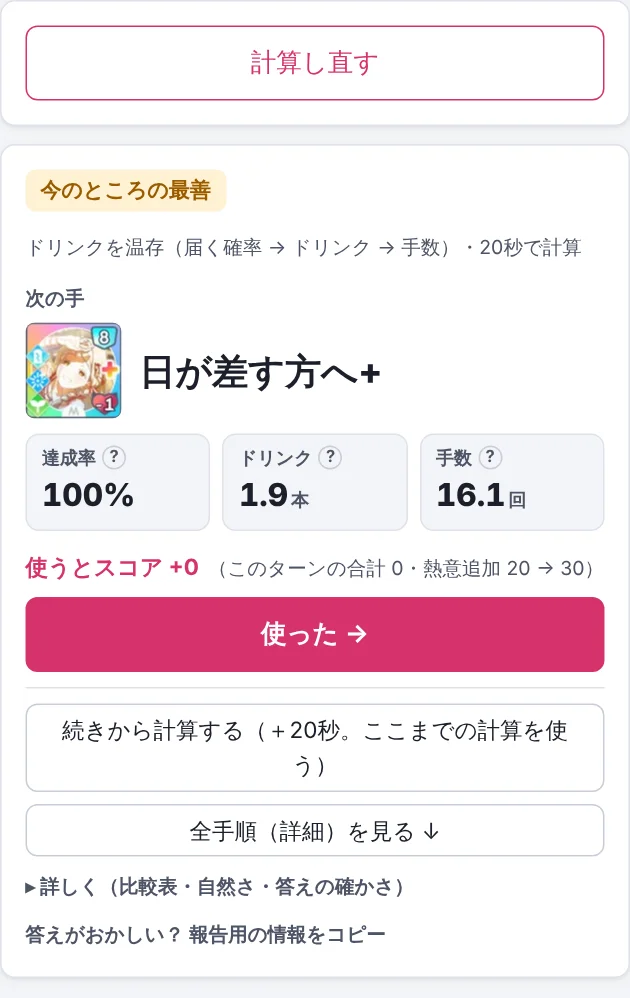
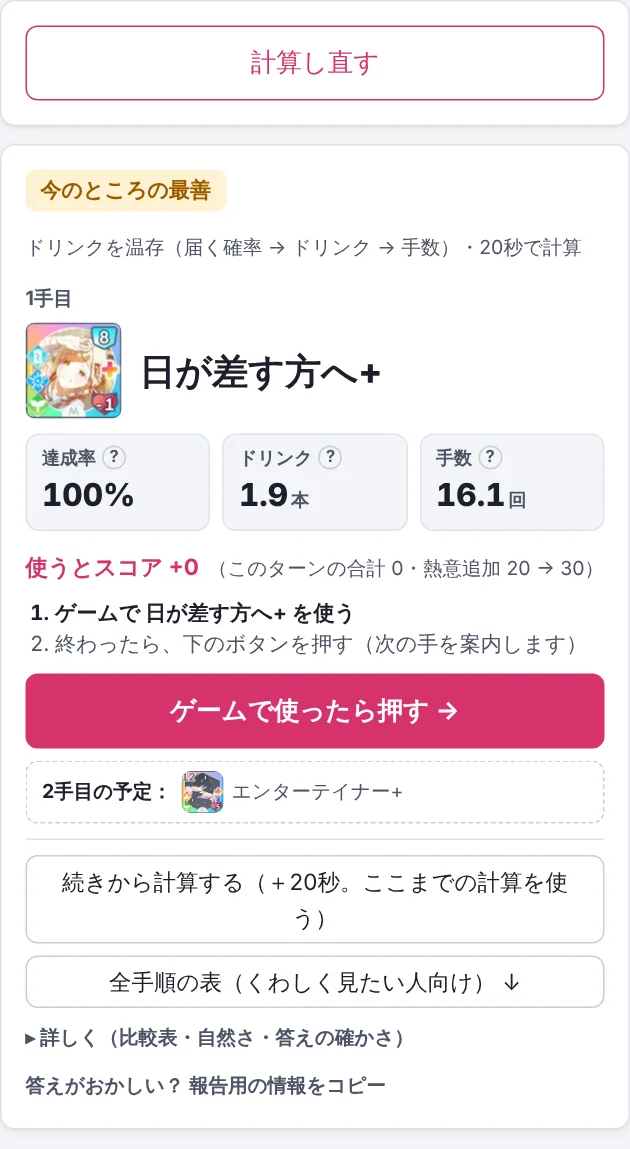
Solitaire Lab 1.15.0

diff --git a/js/answer.js b/js/answer.js
@@ -49,6 +49,22 @@ function mergeSub(tree, at, sub) {
   tree.nodes[at] = tree.nodes[off + sub.root];
 }
 let expanding = null;
+// 次の手の予定（1.15.0、利用者の要望）：引きで分かれなければ次の手、分かれるなら引く可能性のある札を出す（実際の札は、押したあとに選ぶ）
+function nextPreview(tree, node, moveNo) {
+  if (!node.edges?.length) return null;
+  if (node.edges.length === 1) {
+    const c = tree.nodes[node.edges[0].next];
+    if (!c) return null;
+    if (c.end) return h('p.preview', {}, h('b', 'そのあと：'), c.cut ? '（この先は省略）' : c.reached ? 'ここで終わり（目標点に届く）' : 'ここで終わり');
+    return h('p.preview', {}, h('b', `${moveNo + 1}手目の予定：`), c.icon ? pic(c.icon.kind, c.icon.id, c.act, 28) : null, c.act);
+  }
+  const seen = new Map();
+  for (const e of node.edges) for (const x of e.drawn) if (!seen.has(x.id)) seen.set(x.id, x.name);
+  if (!seen.size) return h('p.preview', {}, h('b', 'そのあと：'), '引きによって次の手が変わります');
+  return h('div.preview', {}, h('b', '使ったあとに引く可能性がある札：'),
+    h('div.prevcards', {}, [...seen].map(([id, name]) => h('span.pc', {}, pic('cards', id, name, 28), name))),
+    h('p.hint', `押したあとに、実際に引いた札を選んでもらいます。${moveNo + 1}手目は、引いた札によって変わります。`));
+}
 // その手で入るスコアと、熱意などの変わり方（ゲームの画面と照らし合わせるため。1.14.1、利用者の要望）。
 // 引く札で変わらないことが多いが、変わるときは幅で出す。手の前の値＝node.st、後の値＝分かれの先の st
 function gainOf(tree, node) {
@@ -153,7 +169,8 @@ function resultView(R, rerender, {checkList} = {}) {
     const steps = S.play.steps;
     const {node, id: nodeId, waiting} = walk(R.tree, steps);
     const push = s => { steps.push(s); save(); rerender(); };
-    if (!steps.length) add(h('div.lbl', '次の手'), nextView(R, false));
+    const moveNo = steps.filter(x => x.type === 'act').length + (waiting ? 0 : 1);   // 何手目か（1.15.0）
+    if (!steps.length) add(h('div.lbl', '1手目'), nextView(R, false));
     if (node.end && node.cut && !node.expandErr && canExpand()) {
       // 起きやすい手順に入らなかった引き：続きを、答えを出したスレッドから取り寄せる（計算し直しは要らない）
       if (expanding !== node) { expanding = node; const tree = R.tree;
@@ -171,12 +188,16 @@ function resultView(R, rerender, {checkList} = {}) {
     } else if (waiting) {
       add(...drawPicker(node, push, steps.length, rerender));   // いつも1枚ずつ選ぶ（1.14.4、利用者の決定。前は組み合わせが7通り以上のときだけで、それ以外は手札の一覧）
     } else {
-      if (steps.length) add(h('div.lbl', '次の手'), h('div.nmain', {}, node.icon ? pic(node.icon.kind, node.icon.id, node.act, 64) : null, h('div.ntext', node.act)),
+      if (steps.length) add(h('div.lbl', `${moveNo}手目`), h('div.nmain', {}, node.icon ? pic(node.icon.kind, node.icon.id, node.act, 64) : null, h('div.ntext', node.act)),
         h('div.kpis', {}, kpi('この先の達成率', pct(node.p))));
       if (node.sameEval > 1) add(h('p.hint', `この局面では、同じ評価の手が ${node.sameEval} 通りあります。`));
       const g = gainOf(R.tree, node);
       if (g) add(h('p.gainline', {}, h('b', g.text), g.sub && h('span', g.sub)));
-      add(h('button.big.pri.wide', {onclick: () => push({type: 'act', label: node.act, gain: g?.short || null})}, node.kind === 'endTurn' ? 'ターンを終えた →' : node.kind === 'drink' ? '飲んだ →' : '使った →'));
+      // 何をすればよいかを書く（初めての人が「使った →」に気づかず全手順の表を見ていた。1.15.0、利用者の決定「A でボタンは B の言葉」）
+      const verb = node.kind === 'endTurn' ? 'ターンを終える' : node.kind === 'drink' ? `${node.act} を飲む` : `${node.act} を使う`;
+      add(h('ol.howto', {}, h('li', `ゲームで ${verb}`), h('li', '終わったら、下のボタンを押す（次の手を案内します）')));
+      add(h('button.big.pri.wide', {onclick: () => push({type: 'act', label: node.act, gain: g?.short || null})}, node.kind === 'endTurn' ? 'ターンを終えたら押す →' : node.kind === 'drink' ? 'ゲームで飲んだら押す →' : 'ゲームで使ったら押す →'));
+      add(nextPreview(R.tree, node, moveNo));
       // プレイの途中：ここまでの局面を、計算の入力にする（引いた札が決まったあとで計算し直すと速い）
       if (steps.length && R.setup && deck()?.id === R.deckId) add(h('button.wide.midbtn', {disabled: making, title: '今の手札・行動回数・熱意などのまま、局面の入力にします。目標点はここまでに入った点を引きます',
         onclick: () => makePhase(R, steps, rerender, true)}, making ? '作っています…' : 'ここから局面を作る（今の手札・行動回数のまま）'),
@@ -209,7 +230,7 @@ function resultView(R, rerender, {checkList} = {}) {
 
   // 詳しく
   if (R.tree) add(h('button.wide.stepsbtn', {onclick: () => { S.ui.steps = !S.ui.steps; save(); rerender(); if (S.ui.steps) setTimeout(() => document.getElementById('steps')?.scrollIntoView({behavior: 'smooth'}), 50); }},
-    S.ui.steps ? '全手順（詳細）を閉じる' : '全手順（詳細）を見る ↓'));
+    S.ui.steps ? '全手順の表を閉じる' : '全手順の表（くわしく見たい人向け） ↓'));
   add(h('button.more', {onclick: () => { detailsOpen = !detailsOpen; rerender(); }}, (detailsOpen ? '▾' : '▸') + ' 詳しく（比較表・自然さ・答えの確かさ）'));
   if (detailsOpen) add(details(R, kind, stName, stCls));
   add(h('button.more', {title: '版・設定・局面・答えをコピーします（個人情報は入りません）', onclick: copyReport}, '答えがおかしい？ 報告用の情報をコピー'));
@@ -229,7 +250,7 @@ function drawPicker(node, push, key, rerender) {
   const choose = id => { pick.ids.push(id); const left = node.edges.filter(e => rest(e)); if (left.length === 1) go({e: left[0], i: node.edges.indexOf(left[0])}); else rerender(); };
   const exact = cand.filter(c => !c.rest.length);
   return [h('div.lbl', '何を引きましたか？'),
-    h('p.hint', pick.ids.length ? `${pick.ids.length + 1}枚目は？（順は関係ありません）` : '引いた札を1枚ずつ選んでください（順は関係ありません）'),
+    h('p.hint', pick.ids.length ? `${pick.ids.length + 1}枚目は？（順は関係ありません）` : 'ゲームで引いた札を、1枚ずつ押してください（順は関係ありません）'),
     pick.ids.length ? h('div.row.picked', {}, h('span', '選んだ札：' + pick.ids.map(id => names.get(id)).join('・')), h('button.mini', {onclick: () => { pick.ids.pop(); rerender(); }}, '1つ戻す')) : null,
     h('div.draws.chips', ids.map(id => h('button.drawbtn', {onclick: () => choose(id)}, pic('cards', id, names.get(id), 40), h('b', names.get(id))))),
     ...exact.map(c => h('button.wide', {onclick: () => go(c)}, (c.e.drawn.length ? `これで全部（${drawnText(c.e.drawn)}）` : 'ドロー札なし') + (exact.length > 1 && c.e.hand ? `　手札：${c.e.hand.map(x => x.name).join('・')}` : '')))];

diff --git a/manual/index.html b/manual/index.html
@@ -51,7 +51,7 @@
 <section class="slide cover">
   <h1>Solitaire Lab 詳細マニュアル</h1>
   <div class="sub">学園アイドルマスターの「ソリティア」で、<br>どの順番で札を使えば目標点に届きやすいかを教えてくれるツールです。</div>
-  <div class="ver">版 1.14.9 ・ ← → キー、または画面の左右を押してページをめくります</div>
+  <div class="ver">版 1.15.0 ・ ← → キー、または画面の左右を押してページをめくります</div>
 </section>
 
 <section class="slide">
@@ -256,11 +256,10 @@
   <h2><span class="no">15</span>ゲームを進めながら使う</h2>
   <div class="body"><div class="txt">
     <ol>
-      <li>次の手の下に「<b>使うとスコア</b>」（例：23,370 × 5回 ＝ +116,850）が出ます。ゲームの点と見比べられます。</li>
-      <li>ゲームで、表示された札を使います。</li>
-      <li>「<b>使った</b>」を押します（ドリンクは「飲んだ」）。</li>
-      <li>札を引いたときは「何を引きましたか？」と表示されます。引いた札を1枚ずつ選びます（順は関係ありません。1つに決まると自動で次へ進みます）。</li>
-      <li>次の手が表示されます。これをくり返します。</li>
+      <li>「1手目」「2手目」…と、使う札が出ます。ゲームでその札を使います。</li>
+      <li>「<b>ゲームで使ったら押す →</b>」を押します（ドリンクは「ゲームで飲んだら押す」）。ボタンの下に、次の手の予定や、引く可能性がある札が出ます。</li>
+      <li>札を引いたときは「何を引きましたか？」で、引いた札を1枚ずつ押します（順は関係ありません）。</li>
+      <li>次の手が表示されます。これをくり返します。「使うとスコア」（例：23,370 × 5回 ＝ +116,850）でゲームの点と見比べられます。</li>
     </ol>
     <div class="tip">ヒント：押し間違えたときは「1つ戻す」を押します。ゲームと違うことが起きたときは、状態を入力し直して計算してください。</div>
   </div><div class="pic"><img src="img/11-draw.webp" alt="引いた札を選ぶ"></div></div>
@@ -269,7 +268,7 @@
 <section class="slide">
   <h2><span class="no">16</span>手順の一覧表を見る</h2>
   <div class="body col"><div class="txt wide">
-    「全手順（詳細）を見る」を押すと、手順の一覧表が表示されます。<br>
+    「全手順の表（くわしく見たい人向け）」を押すと、手順の一覧表が表示されます。<br>
     「手順ごと」では、引いた札の出方ごとに、最初から終わりまでの手順を1つずつ見られます（起きやすい順に「手順1」「手順2」…）。「◀ 前」「次 ▶」や一覧で切り替えます。「全部の表」では、すべての分かれを1つの表で見られます。手順がとても多い答えでは、起きやすい順に100通りだけを出します（どれも最後まで）。プレイの案内で進めている途中に開くと、「今のプレイの手順」（ここまでの手と、その先の起きやすい続き）が出ます。<br>
     「表示する列」で、見たい項目（熱意倍率・指針・残り行動・夏夜に咲く思い出の火力など）にチェックを入れると、その列が出ます。「CSV に書き出す」を押すと、すべての列を Excel などで開けるファイルに保存できます。
   </div><div class="pic"><img src="img/13-steps.webp" alt="手順の一覧表"></div></div>

diff --git a/manual/summary.html b/manual/summary.html
@@ -52,7 +52,7 @@
 <section class="slide cover">
   <h1>Solitaire Lab</h1>
   <div class="sub">学園アイドルマスターの「ソリティア」で、<br>どの順番で札を使えば目標点に届きやすいかを教えてくれるツールです。</div>
-  <div class="ver">概要 ・ 版 1.14.9 ・ くわしい使い方は「詳細マニュアル」をご覧ください</div>
+  <div class="ver">概要 ・ 版 1.15.0 ・ くわしい使い方は「詳細マニュアル」をご覧ください</div>
 </section>
 
 <section class="slide">
@@ -75,7 +75,7 @@
     <table>
       <tr><th>① デッキを登録</th><td>自分のデッキの札・ドリンク・P アイテムを登録します。札は名前の一部や略称（エンテイ、ドル宣など）で探せます。</td></tr>
       <tr><th>② 局面を入力</th><td>ゲームの画面を見ながら、指針・行動回数・目標点などを入れ、札を手札や捨て札に振り分けます。</td></tr>
-      <tr><th>③ 計算して進める</th><td>「計算する」を押すと次の手が出ます。ゲームで札を使ったら「使った」を押し、引いた札を選びます。</td></tr>
+      <tr><th>③ 計算して進める</th><td>「計算する」を押すと次の手が出ます。ゲームで札を使ったら「ゲームで使ったら押す →」を押し、引いた札を選びます。</td></tr>
     </table>
   </div><div class="pic three">
     <figure><img src="img/01-deck.webp" alt="デッキ"><figcaption>① デッキを登録</figcaption></figure>

diff --git a/style.css b/style.css
@@ -331,3 +331,10 @@ dialog.restore .row { gap: 8px; justify-content: flex-end; }
 .steptbl tr.future td { opacity: .55; }
 .hiftag { display: inline-block; margin-left: 6px; padding: 1px 8px; border-radius: 999px; font-size: 12px; font-weight: 700; background: var(--acc2); color: var(--acc); border: 1px solid var(--acc); vertical-align: 1px; }
 .hiftag.t2 { background: var(--infobg); color: var(--info); border-color: var(--info); }
+ol.howto { margin: 4px 0 8px; padding-left: 1.4em; font-size: 14px; color: var(--sub); }
+ol.howto li:first-child { color: var(--ink); font-weight: 700; }
+.preview { margin: 8px 0; padding: 6px 10px; border: 1px dashed var(--line2); border-radius: 8px; font-size: 13px; color: var(--sub); display: flex; flex-wrap: wrap; align-items: center; gap: 6px; }
+.preview b { color: var(--ink); }
+.preview .prevcards { display: flex; flex-wrap: wrap; gap: 4px 10px; width: 100%; }
+.preview .pc { display: inline-flex; align-items: center; gap: 4px; }
+.preview .hint { width: 100%; margin: 0; }
